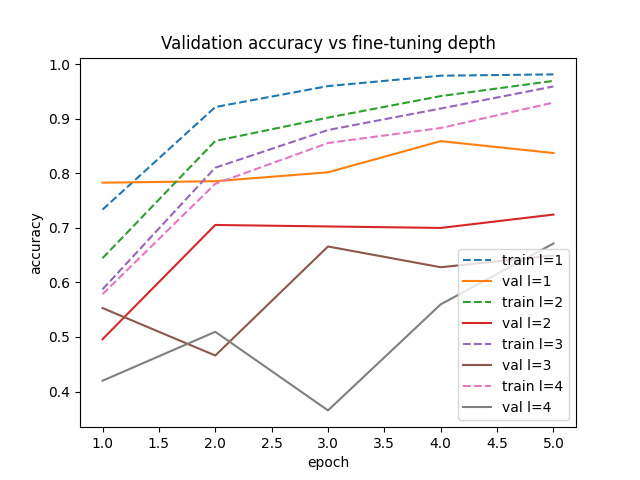
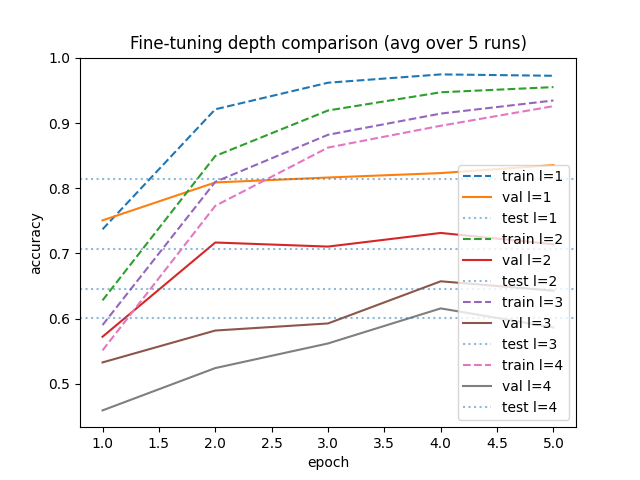
final fix of fine tune l layers

diff --git a/src/fine_tune_l_layers.py b/src/fine_tune_l_layers.py
@@ -215,57 +215,58 @@ max_l = 4
 num_runs = 5
 for l in range(1, max_l + 1):
     print(f"\nTraining with l = {l}")
-    run_train = []
-    run_val = []
-    run_test = []
+    all_train_runs = []
+    all_val_runs = []
+    test_accs = []
 
-    model = models.resnet34(weights="IMAGENET1K_V1")
-    model.fc = nn.Linear(model.fc.in_features, 37)
-    model = model.to(device)
+    for run in range(num_runs):
+      print(f"Run {run+1}/{num_runs}")
 
-    #unfreeze l layers
-    set_finetune_l_layers(model, l)
+      model = models.resnet34(weights="IMAGENET1K_V1")
+      model.fc = nn.Linear(model.fc.in_features, 37)
+      model = model.to(device)
 
-    print("Trainable parts:", describe_layers(l))
-    print("Trainable parameters:",
-        sum(p.numel() for p in model.parameters() if p.requires_grad))
+      #unfreeze l layers
+      set_finetune_l_layers(model, l)
 
-    #Loss + optimizer
-    criterion = nn.CrossEntropyLoss()
+      print("Trainable parts:", describe_layers(l))
+      print("Trainable parameters:",
+          sum(p.numel() for p in model.parameters() if p.requires_grad))
 
-    #optimizer uses all trainable parameters (those not frozen)
-    trainable_params = [p for p in model.parameters() if p.requires_grad]
-    optimizer = optim.Adam(trainable_params, lr=0.001)
+      #Loss + optimizer
+      criterion = nn.CrossEntropyLoss()
 
-    #Train
-    model, train_acc, val_acc = train_model(
-        model,
-        criterion,
-        optimizer,
-        num_epochs=5,
-        l=l
-    )
-    #all_results[l] = (train_acc, val_acc)
+      #optimizer uses all trainable parameters (those not frozen)
+      trainable_params = [p for p in model.parameters() if p.requires_grad]
+      optimizer = optim.Adam(trainable_params, lr=0.001)
 
-    print(f"Evaluating best model for l={l} on test set...")
-    test_acc = evaluate_on_test(model)
+      #Train
+      model, train_acc, val_acc = train_model(
+          model,
+          criterion,
+          optimizer,
+          num_epochs=5,
+          l=l
+      )
+      print(f"Evaluating best model for l={l} on test set...")
+      test_acc = evaluate_on_test(model)
+      #all_results[l] = (train_acc, val_acc)
+      all_train_runs.append(train_acc)
+      all_val_runs.append(val_acc)
+      test_accs.append(test_acc)
 
-    run_train.append(train_acc)
-    run_val.append(val_acc)
-    run_test.append(test_acc)
-
-# average over runs
-avg_train = np.mean(run_train, axis=0)
-avg_val = np.mean(run_val, axis=0)
-avg_test = np.mean(run_test)
-all_results[l] = (avg_train, avg_val, avg_test)
+    # average over runs
+    avg_train = np.mean(np.stack(all_train_runs), axis=0)
+    avg_val = np.mean(np.stack(all_val_runs), axis=0)
+    avg_test = np.mean(test_accs)
+    all_results[l] = (avg_train, avg_val, avg_test)
+    print(f"Avg test accuracy over {num_runs} runs: {avg_test:.4f}")
 
 plt.figure()
-
 for l, (train_acc, val_acc, test_acc) in all_results.items():
-    epochs = range(1, len(val_acc) + 1)
+    epochs = range(1, len(train_acc) + 1)
 
-    plt.plot(epochs, train_acc, label=f"train l={l}", linestyle="--")
+    plt.plot(epochs, train_acc, linestyle="--", label=f"train l={l}")
     plt.plot(epochs, val_acc, label=f"val l={l}")
 
     plt.axhline(
@@ -275,7 +276,7 @@ for l, (train_acc, val_acc, test_acc) in all_results.items():
         label=f"test l={l}"
     )
 
-plt.title("Average Accuracy over 5 runs (fine-tuning depth)")
+plt.title("Fine-tuning depth comparison (avg over 5 runs)")
 plt.xlabel("epoch")
 plt.ylabel("accuracy")
 plt.legend()
